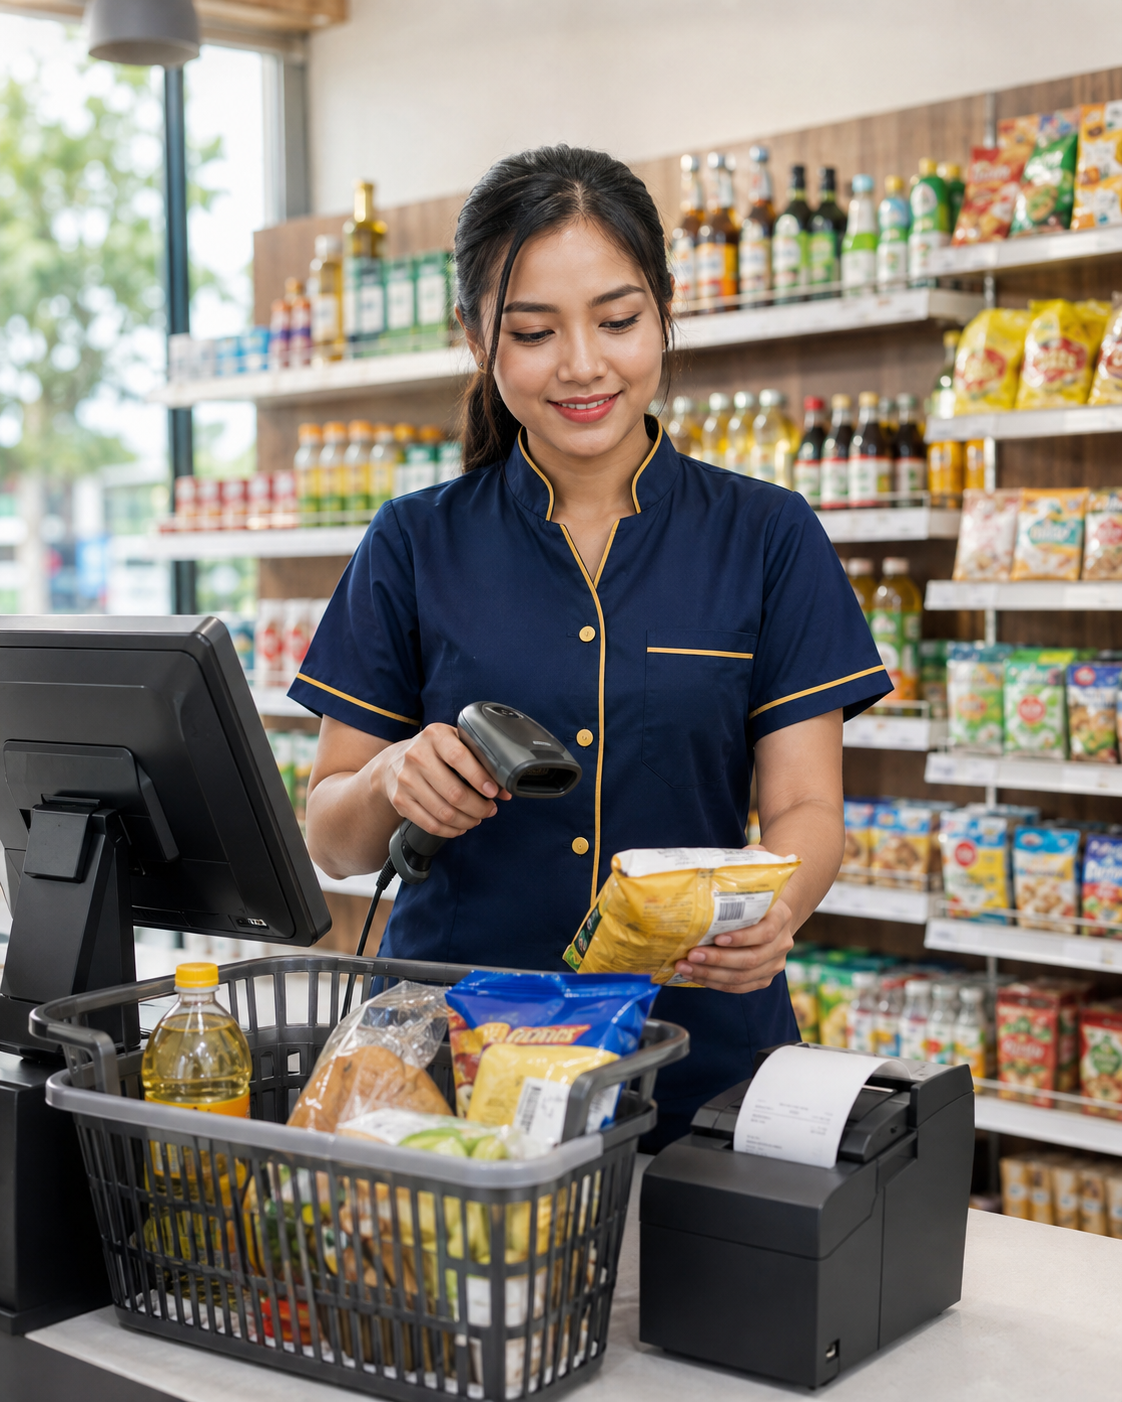
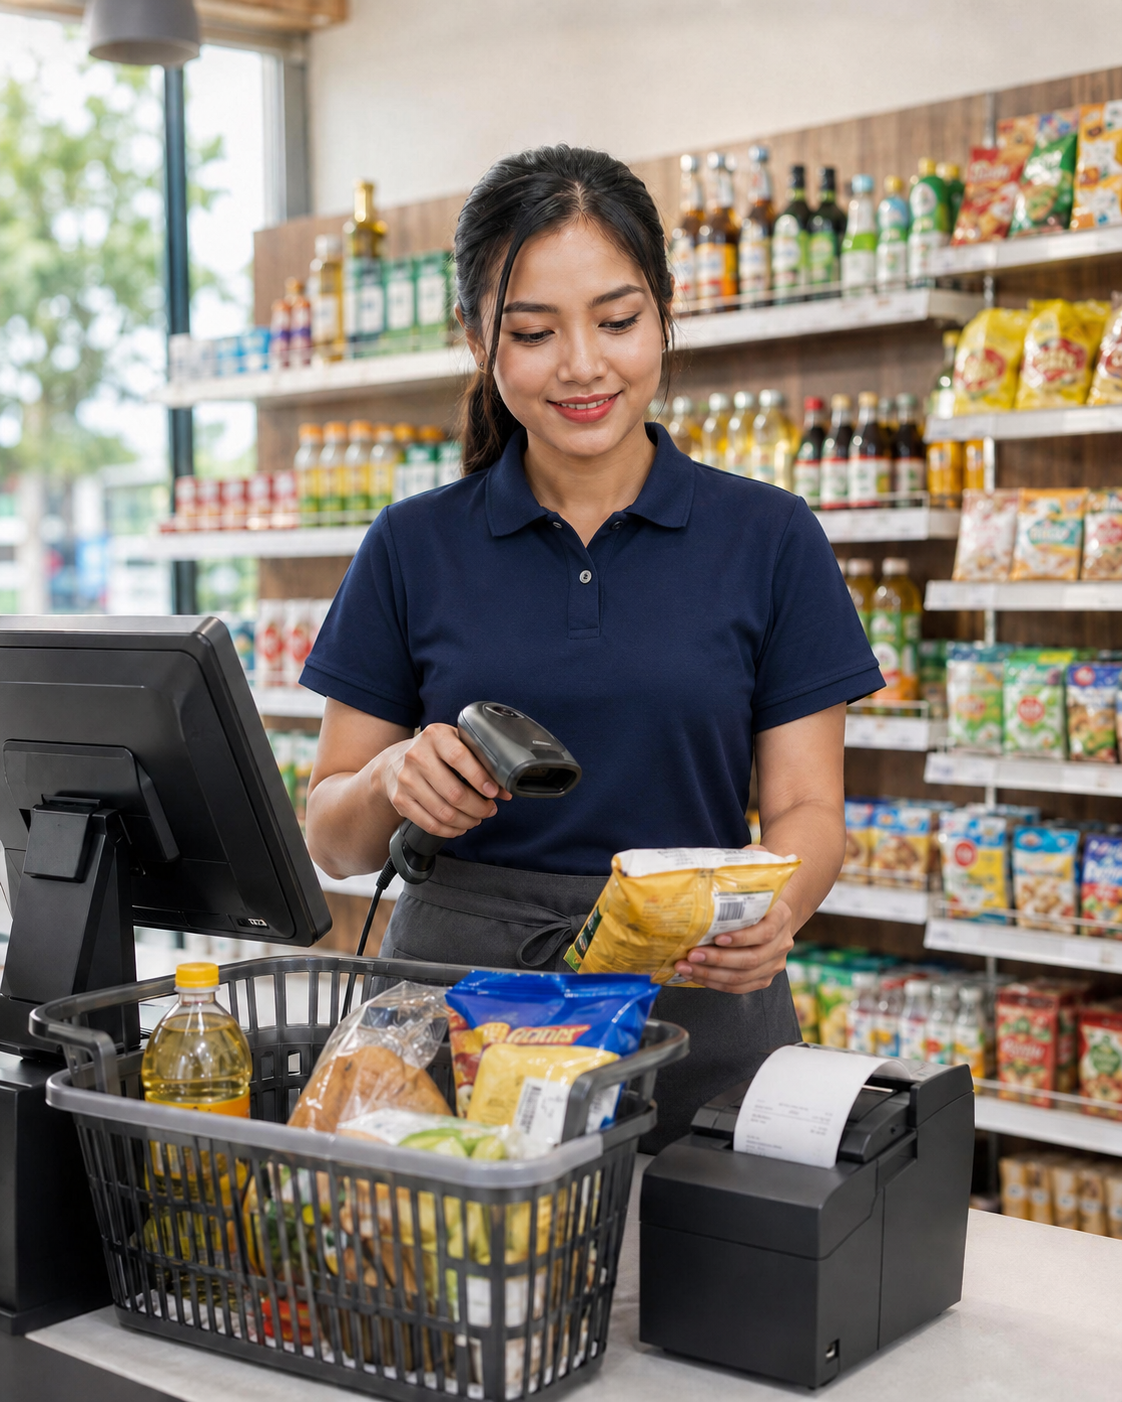
Update image

diff --git a/components/ui/tracing-beam.tsx b/components/ui/tracing-beam.tsx
@@ -71,8 +71,10 @@ export const TracingBeam = ({
               delay: 0.5,
             }}
             animate={{
-              backgroundColor: scrollYProgress.get() > 0 ? "white" : "#10b981",
-              borderColor: scrollYProgress.get() > 0 ? "white" : "#059669",
+              backgroundColor:
+                scrollYProgress.get() > 0 ? "#ffffff" : "#10b981",
+              borderColor:
+                scrollYProgress.get() > 0 ? "#ffffff" : "#059669",
             }}
             className="h-2 w-2 rounded-full border border-neutral-300 bg-white"
           />
